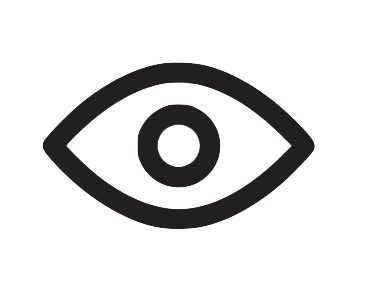
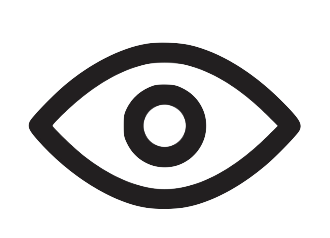
fixing password toggle maybe

diff --git a/reuse-vandy/src/components/SignUp/SignUp.css b/reuse-vandy/src/components/SignUp/SignUp.css
@@ -21,6 +21,7 @@
 .signup-container input[type="email"],
 .signup-container input[type="password"] {
     width: 350px;
+    height: 40px;
     padding: 10px;
     margin-bottom: 16px;
     border: 1px solid #ccc;
@@ -38,12 +39,13 @@
     top: 50%;
     transform: translateY(-50%);
     right: 10px;
-    width: 30px; /* Fixed width for the button */
-    height: 30px; /* Fixed height for the button */
     cursor: pointer;
-    display: flex; /* Add flex display */
-    justify-content: center; /* Center horizontally */
-    align-items: center; /* Center vertically */
+    width: 20px;
+    height: 20px;
+    display: flex;
+    padding: 0; /* Remove padding */
+    background-color: transparent; /* Remove background color */
+    border: none; /* Remove border */
 }
 
 .signup-container .password-toggle-icon img {
